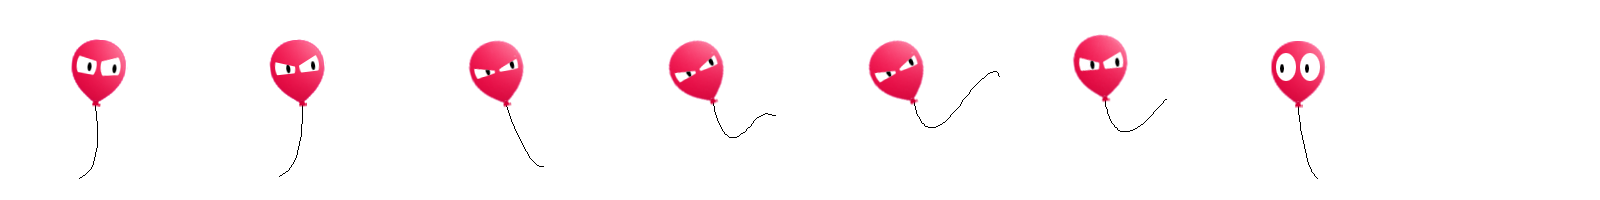
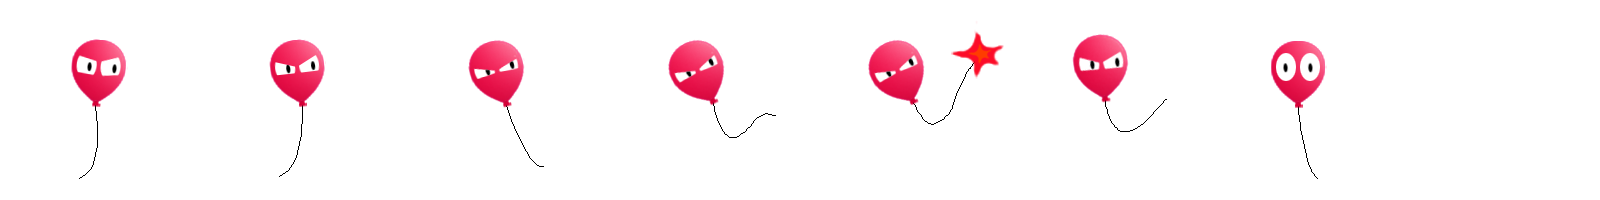
Add files via upload

diff --git a/balloons/mugen.min.js b/balloons/mugen.min.js
@@ -1,5 +1,5 @@
 /*
-  Mini UnGame ENgine (MUGEN) ver 0.12
+  Mini UnGame ENgine (MUGEN) ver 0.13
   Copyright 2019 Brian James
 
   Permission is hereby granted, free of charge, to any person obtaining a copy of this software and associated documentation files (the "Software"), to deal in the Software without restriction, including without limitation the rights to use, copy, modify, merge, publish, distribute, sublicense, and/or sell copies of the Software, and to permit persons to whom the Software is furnished to do so, subject to the following conditions:
@@ -8,4 +8,4 @@
 
   THE SOFTWARE IS PROVIDED "AS IS", WITHOUT WARRANTY OF ANY KIND, EXPRESS OR IMPLIED, INCLUDING BUT NOT LIMITED TO THE WARRANTIES OF MERCHANTABILITY, FITNESS FOR A PARTICULAR PURPOSE AND NONINFRINGEMENT. IN NO EVENT SHALL THE AUTHORS OR COPYRIGHT HOLDERS BE LIABLE FOR ANY CLAIM, DAMAGES OR OTHER LIABILITY, WHETHER IN AN ACTION OF CONTRACT, TORT OR OTHERWISE, ARISING FROM, OUT OF OR IN CONNECTION WITH THE SOFTWARE OR THE USE OR OTHER DEALINGS IN THE SOFTWARE.
 */
-var MUGEN=function(){var self=this;var FIELD_HERO_SPEED="heroSpeed",FIELD_MONSTER_SPEED="monsterSpeed",FIELD_TIME_BETWEEN_MONSTERS="timeBetweenMonsters",FIELD_JUMP_HEIGHT="jumpHeight",FIELD_ATTACK_DURATION="attackDuration",FIELD_HERO_HIT_RADIUS="heroHitRadius",FIELD_HERO_ATTACK_RADIUS="attackRadius",FIELD_MONSTER_HIT_RADIUS="monsterHitRadius",FIELD_POINTS_PER_MONSTER_KILLED="pointsPerMonsterKilled",FIELD_ATTEMPT_RESPONSIVE="makeResponsive",FIELD_AUTOPLAY="autoPlay";var SETTING_FIELD_NAMES=[FIELD_HERO_SPEED,FIELD_MONSTER_SPEED,FIELD_TIME_BETWEEN_MONSTERS,FIELD_JUMP_HEIGHT,FIELD_ATTACK_DURATION,FIELD_HERO_ATTACK_RADIUS,FIELD_HERO_HIT_RADIUS,FIELD_MONSTER_HIT_RADIUS,FIELD_POINTS_PER_MONSTER_KILLED,FIELD_ATTEMPT_RESPONSIVE,FIELD_AUTOPLAY];var DEFAULT_SETTINGS={};DEFAULT_SETTINGS[FIELD_HERO_SPEED]=220,DEFAULT_SETTINGS[FIELD_MONSTER_SPEED]=450,DEFAULT_SETTINGS[FIELD_TIME_BETWEEN_MONSTERS]=2600,DEFAULT_SETTINGS[FIELD_JUMP_HEIGHT]=145,DEFAULT_SETTINGS[FIELD_ATTACK_DURATION]=600,DEFAULT_SETTINGS[FIELD_HERO_HIT_RADIUS]=50,DEFAULT_SETTINGS[FIELD_HERO_ATTACK_RADIUS]=50,DEFAULT_SETTINGS[FIELD_MONSTER_HIT_RADIUS]=50,DEFAULT_SETTINGS[FIELD_POINTS_PER_MONSTER_KILLED]=1,DEFAULT_SETTINGS[FIELD_ATTEMPT_RESPONSIVE]=false,DEFAULT_SETTINGS[FIELD_AUTOPLAY]=false;var SETTINGS={};var origBgWidth,origBgHeight;var currentScore=0;var monstersKilled=0;var background=null;var hero=null;var body=document.querySelector("body");var instructionsDiv=document.querySelector(".instructions");var scoreDiv=null;var CLASS_BACKGROUND="background";var CLASS_HERO="hero";var CLASS_WALKING="walking";var CLASS_LEFT="left";var CLASS_IDLING="idling";var CLASS_JUMPING="jumping";var CLASS_ATTACKING="attacking";var CLASS_MONSTER="monster";var CLASS_PRELOAD_IMG="preload-image";var CLASS_WAS_HIT="was-hit";var CLASS_SCORE_DIV="score";var pointerHandlersSet=false;var idleTimeout=null;self.MUGEN=function(){};self.initialize=function(userSettings){for(var i=0;i<SETTING_FIELD_NAMES.length;i++){var f=SETTING_FIELD_NAMES[i];SETTINGS[f]=DEFAULT_SETTINGS[f]}if(undefined!==userSettings){self.handleUserSettings(userSettings)}self.bindCoreListeners();if(!SETTINGS[FIELD_AUTOPLAY]){body.style.cursor="pointer";self.bindIOListeners();instructionsDiv.classList.add("show")}self.preloadImages();background=document.createElement("div");background.classList.add(CLASS_BACKGROUND);body.appendChild(background);body.style.width=background.clientWidth+"px";body.style.height=background.clientHeight+"px";hero=document.createElement("div");hero.classList.add(CLASS_HERO,CLASS_IDLING);body.appendChild(hero);scoreDiv=document.createElement("div");scoreDiv.classList.add(CLASS_SCORE_DIV);body.appendChild(scoreDiv);origBgWidth=background.clientWidth;origBgHeight=background.clientHeight;if(SETTINGS[FIELD_ATTEMPT_RESPONSIVE]){self.attemptResponsiveResize()}self.updateScoreDivText();self.spawnMonster();setInterval(self.spawnMonster,SETTINGS[FIELD_TIME_BETWEEN_MONSTERS]);if(SETTINGS[FIELD_AUTOPLAY]){self.autoplayMode()}window.requestAnimationFrame(self.update)};self.update=function(){var collisionResults=self.testCollisions();self.handleCollisions(collisionResults);window.requestAnimationFrame(self.update)};self.testCollisions=function(){var heroBox=hero.getBoundingClientRect();var bodyBox=body.getBoundingClientRect();var heroX=heroBox.left+hero.scrollLeft-(bodyBox.left+body.scrollLeft)+heroBox.width*.5;var heroY=heroBox.top+hero.scrollTop-(bodyBox.top+body.scrollTop)+heroBox.height*.5;var monsters=document.querySelectorAll("."+CLASS_MONSTER);var results=[];var scale=body.clientWidth/origBgWidth;var adjMonHitRadius=SETTINGS[FIELD_MONSTER_HIT_RADIUS]*scale;var adjHeroAttackRadius=SETTINGS[FIELD_HERO_ATTACK_RADIUS]*scale;if(null!==monsters){monsters.forEach(function(m){var monsterBox=m.getBoundingClientRect();var monsterX=monsterBox.left+m.scrollLeft-(bodyBox.left+body.scrollLeft)+monsterBox.width*.5;var monsterY=monsterBox.top+m.scrollTop-(bodyBox.top+body.scrollTop)+monsterBox.height*.5;var heroMonsterDist=Math.sqrt(Math.pow(heroX-monsterX,2)+Math.pow(heroY-monsterY,2));if(heroMonsterDist<=adjMonHitRadius+adjHeroAttackRadius){if(hero.classList.contains(CLASS_ATTACKING)){if(heroX<monsterX&&!hero.classList.contains(CLASS_LEFT)||heroX>monsterX&&hero.classList.contains(CLASS_LEFT)){results.push(m)}}}})}return results};self.handleCollisions=function(collisions){collisions.forEach(function(el){if(!el.classList.contains(CLASS_WAS_HIT)){el.classList.add(CLASS_WAS_HIT);monstersKilled++;self.addToScore(SETTINGS[FIELD_POINTS_PER_MONSTER_KILLED])}})};self.preloadImages=function(){var h1=document.createElement("div");h1.classList.add(CLASS_PRELOAD_IMG,CLASS_HERO,CLASS_IDLING);body.appendChild(h1);var h2=document.createElement("div");h2.classList.add(CLASS_PRELOAD_IMG,CLASS_HERO,CLASS_WALKING);body.appendChild(h2);var h3=document.createElement("div");h3.classList.add(CLASS_PRELOAD_IMG,CLASS_HERO,CLASS_JUMPING);body.appendChild(h3);var h4=document.createElement("div");h4.classList.add(CLASS_PRELOAD_IMG,CLASS_HERO,CLASS_ATTACKING);body.appendChild(h4)};self.handleUserSettings=function(us){for(var i=0;i<SETTING_FIELD_NAMES.length;i++){var f=SETTING_FIELD_NAMES[i];if(undefined!==us[f]){SETTINGS[f]=us[f]}}};self.attemptResponsiveResize=function(){var aspectRatio=origBgWidth/origBgHeight;var bgWdConstrainedByWindowWd=origBgWidth;var bgWdConstrainedByWindowHt=origBgWidth;if(document.documentElement.clientWidth<origBgWidth){bgWdConstrainedByWindowWd=document.documentElement.clientWidth}if(document.documentElement.clientHeight<origBgHeight){bgWdConstrainedByWindowHt=document.documentElement.clientHeight*aspectRatio}if(bgWdConstrainedByWindowWd<origBgWidth||bgWdConstrainedByWindowHt<origBgWidth){var newBgWd=bgWdConstrainedByWindowWd<bgWdConstrainedByWindowHt?bgWdConstrainedByWindowWd:bgWdConstrainedByWindowHt;var newBgHt=newBgWd/aspectRatio;var scale=newBgWd/origBgWidth;body.style.width=newBgWd+"px";body.style.height=newBgHt+"px";background.style.width=newBgWd+"px";background.style.height=newBgHt+"px";hero.style.width=null;hero.style.height=null;hero.style.bottom=null;hero.style.top=null;hero.style.left=null;hero.style.right=null;hero.style.width=hero.clientWidth*scale+"px";hero.style.height=hero.clientHeight*scale+"px";var heroBottomPos=parseFloat(window.getComputedStyle(hero).getPropertyValue("bottom"));hero.style.bottom=heroBottomPos*scale+"px";hero.style.top="auto";hero.style.right="auto";hero.style.left=parseFloat(window.getComputedStyle(hero).getPropertyValue("left"))*scale+"px";var monsters=document.querySelectorAll("."+CLASS_MONSTER);if(null!==monsters){monsters.forEach(function(m){m.style.width=null;m.style.height=null;m.style.bottom=null;m.style.top=null;m.style.width=m.clientWidth*scale+"px";m.style.height=m.clientHeight*scale+"px";var mBottomPos=parseFloat(window.getComputedStyle(m).getPropertyValue("bottom"));m.style.bottom=mBottomPos*scale+"px";m.style.top="auto"})}}else{background.style.width=null;background.style.height=null;body.style.width=background.clientWidth+"px";body.style.height=background.clientHeight+"px";hero.style.width=null;hero.style.height=null;hero.style.bottom=null;hero.style.top=null;hero.style.left=null;hero.style.right=null;var monsters=document.querySelectorAll("."+CLASS_MONSTER);if(null!==monsters){monsters.forEach(function(m){m.style.width=null;m.style.height=null;m.style.bottom=null;m.style.top=null})}}};self.setWalkRightClass=function(){hero.className="";self.resetAnimation(hero);hero.classList.add(CLASS_HERO,CLASS_WALKING)};self.setWalkLeftClass=function(){hero.className="";self.resetAnimation(hero);hero.classList.add(CLASS_HERO,CLASS_WALKING,CLASS_LEFT)};self.walkByPos=function(x){if(x>hero.offsetLeft){self.setWalkRightClass()}else{self.setWalkLeftClass()}var dist=Math.abs(x-hero.offsetLeft);var adjHeroSpeed=SETTINGS[FIELD_HERO_SPEED];if(document.documentElement.clientWidth<origBgWidth){adjHeroSpeed*=document.documentElement.clientWidth/origBgWidth}var time=dist/adjHeroSpeed*1e3;hero.style["transition-duration"]=time+"ms";hero.style.left=x+"px";clearTimeout(idleTimeout);idleTimeout=setTimeout(function(){self.idle();if(SETTINGS[FIELD_AUTOPLAY]){self.autoplayMode()}},time)};self.jump=function(x){clearTimeout(idleTimeout);hero.style["transition-duration"]="0ms";var currentHeroX=hero.getBoundingClientRect().left+hero.scrollLeft-(body.getBoundingClientRect().left+body.scrollLeft);hero.style.left=currentHeroX+"px";self.setJumpClass();var adjJumpHeight=SETTINGS[FIELD_JUMP_HEIGHT];var adjHeroSpeed=SETTINGS[FIELD_HERO_SPEED];if(document.documentElement.clientWidth<origBgWidth){adjJumpHeight*=document.documentElement.clientWidth/origBgWidth;adjHeroSpeed*=document.documentElement.clientWidth/origBgWidth}var timeOneWay=adjJumpHeight/adjHeroSpeed*1e3/2;hero.style["transition-duration"]=timeOneWay+"ms";var dir="";if(Math.abs(x-currentHeroX)>hero.clientWidth*.3){if(x<currentHeroX){dir="left";hero.classList.add(CLASS_LEFT)}else{dir="right"}}var lateralMovement=50;if(document.documentElement.clientWidth<origBgWidth){lateralMovement*=document.documentElement.clientWidth/origBgWidth}if(dir==="left"){hero.style.left=currentHeroX-lateralMovement+"px"}else if(dir==="right"){hero.style.left=currentHeroX+lateralMovement+"px"}hero.style["margin-bottom"]=adjJumpHeight+"px";setTimeout(function(dir){hero.style["margin-bottom"]=0;if(dir==="left"){hero.style.left=currentHeroX-lateralMovement*2+"px"}else if(dir==="right"){hero.style.left=currentHeroX+lateralMovement*2+"px"}if(!hero.classList.contains(CLASS_ATTACKING)){idleTimeout=setTimeout(function(){self.idle();if(SETTINGS[FIELD_AUTOPLAY]){self.autoplayMode()}else{}},timeOneWay)}},timeOneWay,dir)};self.setJumpClass=function(){hero.classList.remove(CLASS_HERO);hero.classList.remove(CLASS_WALKING);hero.classList.remove(CLASS_IDLING);self.resetAnimation(hero);hero.classList.add(CLASS_HERO,CLASS_JUMPING)};self.attack=function(x){clearTimeout(idleTimeout);var isJumping=hero.classList.contains(CLASS_JUMPING);var currentHeroX=hero.getBoundingClientRect().left+hero.scrollLeft-(body.getBoundingClientRect().left+body.scrollLeft);if(!isJumping){hero.style["transition-duration"]="0ms";self.setIdleClass();hero.style.left=currentHeroX+"px"}self.setAttackClass();if(x<currentHeroX+hero.clientWidth*.5){hero.classList.add(CLASS_LEFT)}else{hero.classList.remove(CLASS_LEFT)}idleTimeout=setTimeout(function(){self.idle();if(SETTINGS[FIELD_AUTOPLAY]){self.autoplayMode()}else{}},SETTINGS[FIELD_ATTACK_DURATION])};self.setAttackClass=function(){hero.className="";self.resetAnimation(hero);hero.classList.add(CLASS_HERO,CLASS_ATTACKING)};self.setIdleClass=function(){hero.className="";self.resetAnimation(hero);hero.classList.add(CLASS_HERO,CLASS_IDLING)};self.idle=function(){self.setIdleClass()};self.resetAnimation=function(el){el.style.animaton="none";el.offsetHeight;el.style.animation=""};self.autoplayMode=function(){var nextMove=Math.random();if(nextMove<.1){self.idle();setTimeout(function(){self.autoplayMode()},1e3)}else{nextMove=Math.random();if(nextMove<.5){var margin=hero.clientWidth*.5;var targetPos=margin+Math.round(Math.random()*(body.clientWidth-margin*2));self.walkByPos(targetPos)}else if(nextMove<.75){var jumpDir=Math.random();var heroPos=hero.getBoundingClientRect().left+hero.scrollLeft;if(jumpDir<.33){self.jump(heroPos-300)}else if(jumpDir<.66){self.jump(heroPos)}else{self.jump(heroPos+300)}}else{self.attack(body.clientWidth*.5)}}};self.spawnMonster=function(){var monster=document.createElement("div");monster.classList.add(CLASS_MONSTER);body.appendChild(monster);var startRight=-50-monster.clientWidth;monster.style.right=startRight+"px";if(body.clientWidth<origBgWidth){var scale=body.clientWidth/origBgWidth;monster.style.width=monster.clientWidth*scale+"px";monster.style.height=monster.clientHeight*scale+"px";monster.style.top="auto";var b=parseFloat(window.getComputedStyle(monster).getPropertyValue("bottom"));monster.style.bottom=b*scale+"px"}var endRight=body.clientWidth+monster.clientWidth+10;var dist=Math.abs(startRight-body.clientWidth);var adjSpeed=SETTINGS[FIELD_MONSTER_SPEED];if(document.documentElement.clientWidth<origBgWidth){adjSpeed*=document.documentElement.clientWidth/origBgWidth}var time=dist/adjSpeed*1e3;monster.style["transition-duration"]=time+"ms";monster.style.right="100%";setTimeout(function(){monster.remove()},time+100)};self.pointerDown=function(target,pointerX,pointerY,special){instructionsDiv.classList.remove("show");if(target.classList.contains(CLASS_MONSTER)){}else if(special){if(!hero.classList.contains(CLASS_ATTACKING)){self.attack(pointerX)}}else{if(!hero.classList.contains(CLASS_JUMPING)&&!hero.classList.contains(CLASS_ATTACKING)){var newX=pointerX-hero.clientWidth*.5;if(pointerY>=hero.offsetTop){self.walkByPos(newX)}else{self.jump(newX)}}}};self.mouseDown=function(e){if(!pointerHandlersSet){body.removeEventListener("touchstart",self.touchStart);pointerHandlersSet=true}var xRelToBody=e.clientX-(e.target.getBoundingClientRect().left+body.scrollLeft);var yRelToBody=e.clientY-(e.target.getBoundingClientRect().top+body.scrollTop);var specialClick=e.shiftKey;self.pointerDown(e.target,xRelToBody,yRelToBody,specialClick);return false};self.touchStart=function(e){if(!pointerHandlersSet){body.removeEventListener("mousedown",self.mouseDown);pointerHandlersSet=true}var xRelToBody=e.touches[0].clientX-(e.target.getBoundingClientRect().left+body.scrollLeft);var yRelToBody=e.touches[0].clientY-(e.target.getBoundingClientRect().top+body.scrollTop);var specialTap=e.touches.length>1;self.pointerDown(e.target,xRelToBody,yRelToBody,specialTap);return false};self.keyDown=function(e){};self.resize=function(e){if(SETTINGS[FIELD_ATTEMPT_RESPONSIVE]){self.attemptResponsiveResize()}};self.addToScore=function(howMuch){currentScore+=howMuch;self.updateScoreDivText()};self.updateScoreDivText=function(){scoreDiv.textContent=currentScore};self.bindCoreListeners=function(){window.addEventListener("resize",self.resize)};self.bindIOListeners=function(){document.addEventListener("keydown",self.keyDown);body.addEventListener("mousedown",self.mouseDown);body.addEventListener("touchstart",self.touchStart)};self.unbindIOListeners=function(){document.removeEventListener("keydown",self.keyDown);body.removeEventListener("mousedown",self.mouseDown);body.removeEventListener("touchstart",self.touchStart)}};
[1 lines of base64/hex data omitted]

diff --git a/balloons/style.css b/balloons/style.css
@@ -30,7 +30,7 @@ body {
   text-align: center;
   font-family: Helvetica, Arial, sans-serif;
   font-weight: bold;
-  color: white;
+  color: rgb(242, 41, 93);;
   opacity: 0;
   z-index: 10;
   pointer-events: none;
@@ -38,7 +38,7 @@ body {
 }
 
 .instructions.show {
-  opacity: 0;
+  opacity: .5;
 }
 
 .score {
@@ -129,8 +129,25 @@ body {
 }
 
 .monster.was-hit {
-  opacity: 0;
+opacity:0;
+  bottom: -400px !important;
+
+  transition: bottom 2s ease-in-out, opacity 0.7s ease-in-out;
+
+
 }
+@keyframes hit{
+  0% {
+     bottom: 490px;
+     transform: rotate( 0deg);
+  }
+  100% {
+    bottom: 0px;
+    transform: rotate( -45deg);
+  }
+}
+
+
 
 .preload-image {
   position: absolute;
